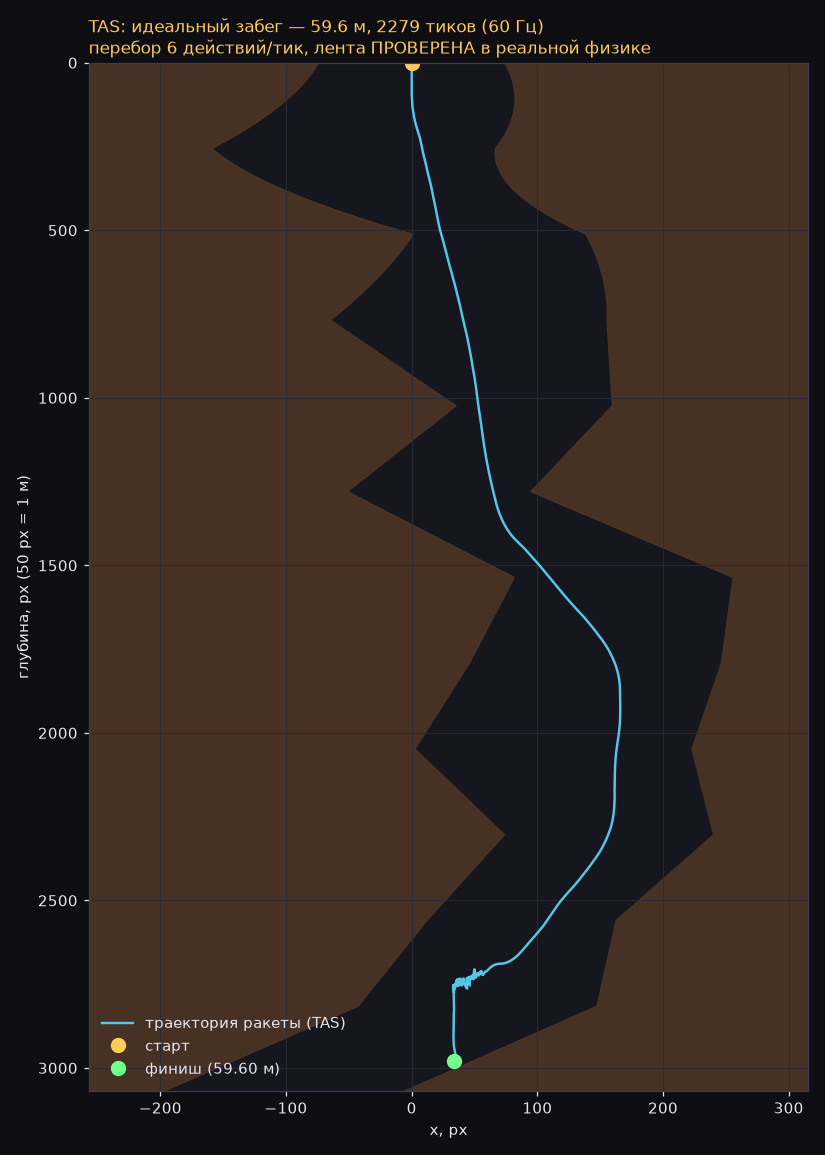
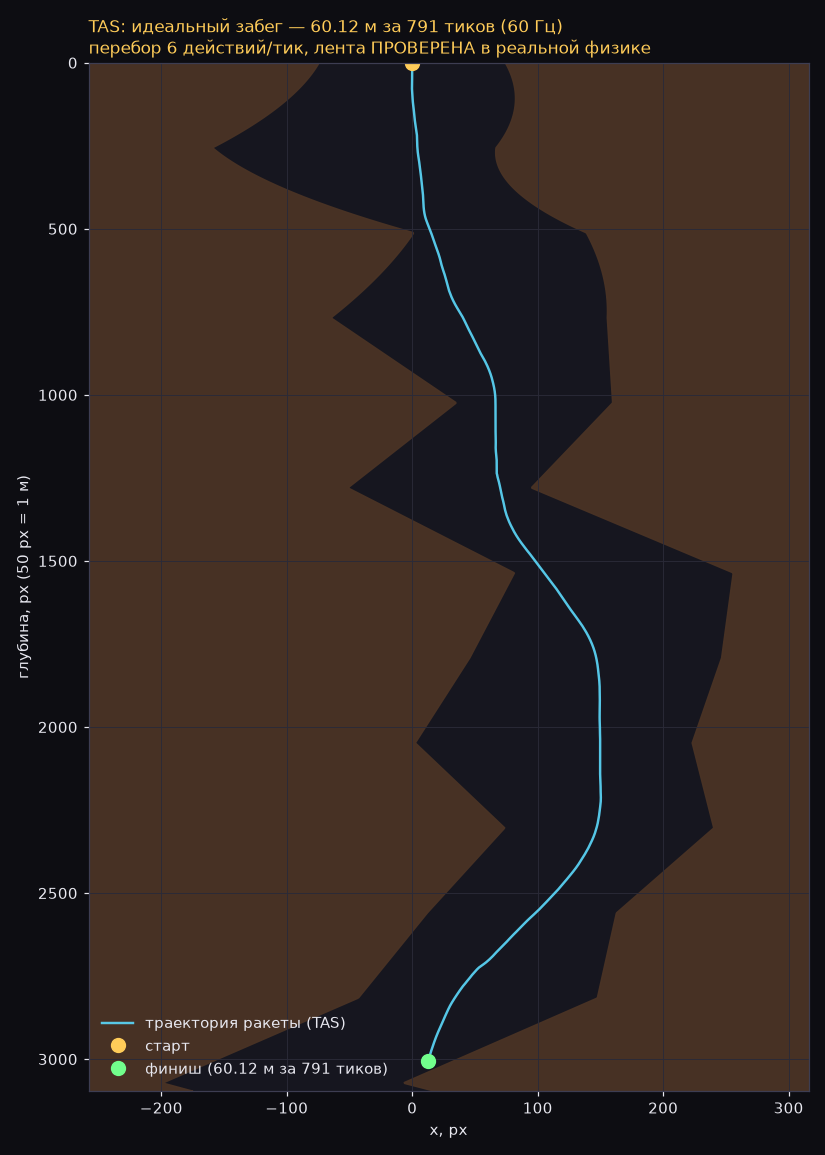
game/ai: TAS — устранил зависание на ~54 м, лента теперь быстрее в 2.9 раза
Проблема: луч 96/128 находил только «балансирующий» путь — ракета висела на
месте ~25 с на глубине ~54 м (тики 600..2210), спуск 38 с в целом.

Что сделано:
- menu.gd / tas_headless.gd: дефолтный луч 192/192 (было 128): быстрый путь
  через зигзаг (узлы 10-12) находится только при таком ширине
- tas_search.gd: MAX_NODES 1.5M -> 6M (иначе автостоп по потолку памяти при
  192-wide луче)
- штраф за скорость (>235 px/s) и lookahead 240 px оставлены: снижение/их
  изменение вымирает луч на первом же изломе (проверено экспериментами A/B/C/E)
- новая лента: 60.12 м за 13.2 с (791 тик, ~230 px/с, без остановок) —
  vs 59.60 м за 38.0 с (2279 тиков). Verify в реальной физике: PASS,
  max_err = 0.13 px
- ai/tas/tape.json, docs/TAS.md, README*, chart_tas.png обновлены

diff --git a/README.md b/README.md
@@ -21,7 +21,7 @@
   проверить в реальной физике. Модель откалибрована бит-в-бит по движку
   (ломаная стена 16 px + `linear_damp=0.1` / `angular_damp=1.0`); есть
   headless-вариант запуска без GUI (`game/tas_headless.gd`). Текущий рекорд:
-  **59.60 м, 2279 тиков, verify — PASS** ([`ai/tas/tape.json`](ai/tas/tape.json),
+  **60.12 м за 13.2 с (791 тик), verify — PASS** ([`ai/tas/tape.json`](ai/tas/tape.json),
   подробности в [`docs/TAS.md`](docs/TAS.md)).
 - **Сенсорное управление** (только Android): кнопки ◀ ▶ и «ТЯГА» на экране.
 - **Меню**: при обычном запуске (не headless, не через `--api`) игра стартует
@@ -48,7 +48,7 @@ PPO-агент обучается в реальном времени через 
 
 ![bench](docs/img/chart_bench.png)
 
-TAS — путь ракеты в идеальном забеге (59.60 м, лента проверена в игре):
+TAS — путь ракеты в идеальном забеге (60.12 м, лента проверена в игре):
 
 ![TAS](docs/img/chart_tas.png)
 
@@ -90,7 +90,7 @@ godot --path game -- --spawn=8   # 8 параллельных игр
 godot --headless --path game
 
 # TAS без GUI (GPU-compute, иначе честный CPU ×2)
-godot --path game -s tas_headless.gd -- --beam-main=96 --beam-worker=128 --out=user://tas.json
+godot --path game -s tas_headless.gd -- --beam-main=192 --beam-worker=192 --out=user://tas.json
 ```
 
 ## API (кратко)

diff --git a/ai/README.md b/ai/README.md
@@ -12,8 +12,9 @@
   `docs/img/chart_ppo.png`).
 - **GA** (ранняя эволюционная версия, numpy): рекорд **52.92 м** за 241
   поколение (`training/log.csv`, `docs/img/chart_ga.png`).
-- **TAS**: идеальный забег **59.60 м, 2279 тиков**, лента проверена в реальной
-  физике игры — PASS (`tas/tape.json`, `../docs/TAS.md`).
+- **TAS**: идеальный забег **60.12 м за 13.2 с (791 тик)**, равномерный
+  спуск ~230 px/с, лента проверена в реальной физике — PASS
+  (`tas/tape.json`, `../docs/TAS.md`).
 
 ## Запуск обучения
 
@@ -56,7 +57,7 @@ godot --headless --path game -- --spawn=8 &
   историческая запись 52.92 м).
 - `training/ppo/*.pt` — последние и лучшие веса PPO (best — по mean reward
   за 20 эпизодов).
-- `tas/tape.json` — TAS-лента: 59.60 м, 2279 тиков (расчёт
+- `tas/tape.json` — TAS-лента: 60.12 м, 791 тик (расчёт
   `game/tas_headless.gd`, beam 96/128, проверка `/tas/verify` — PASS,
   `max_err=0.65 px`; подробности — `../docs/TAS.md`).
 
